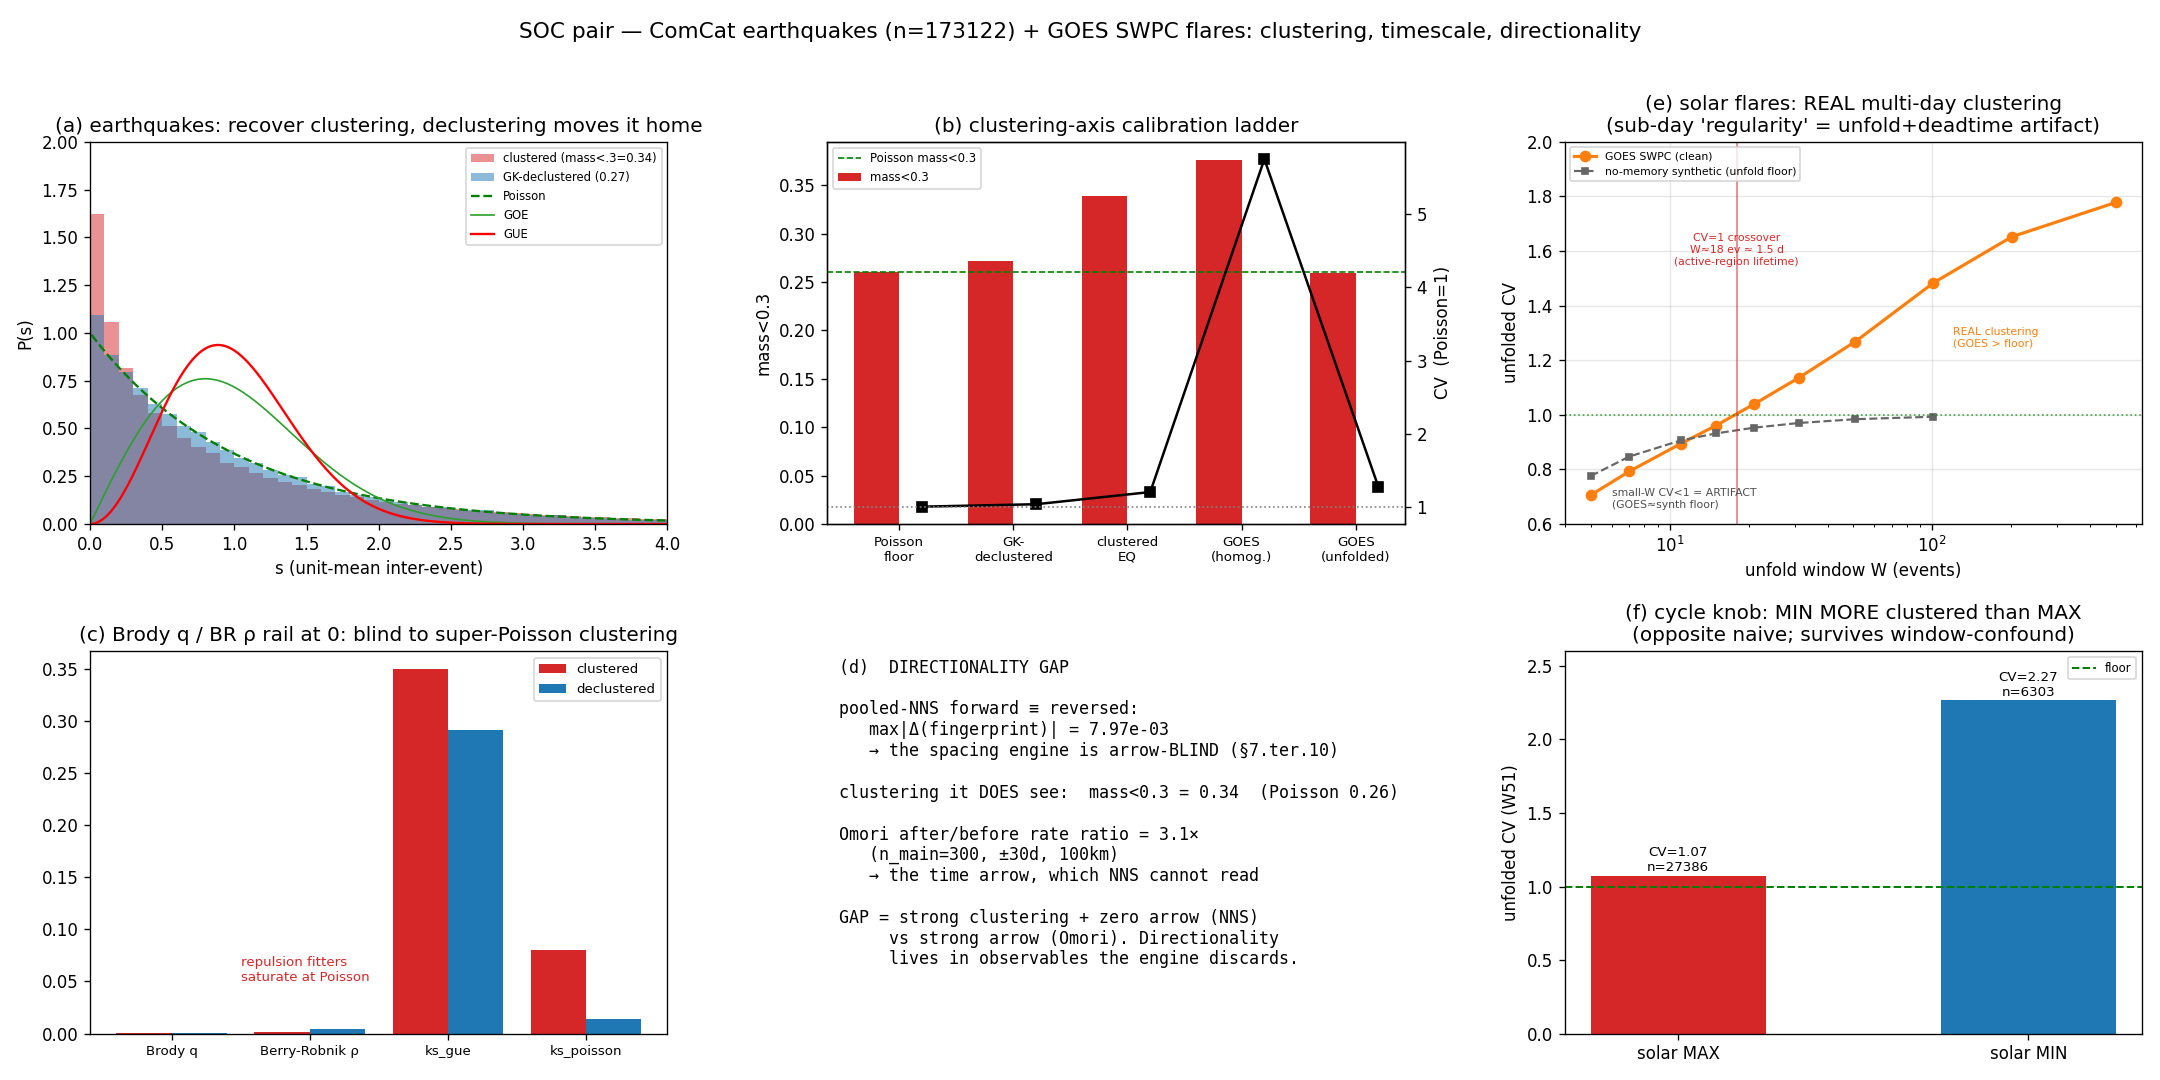
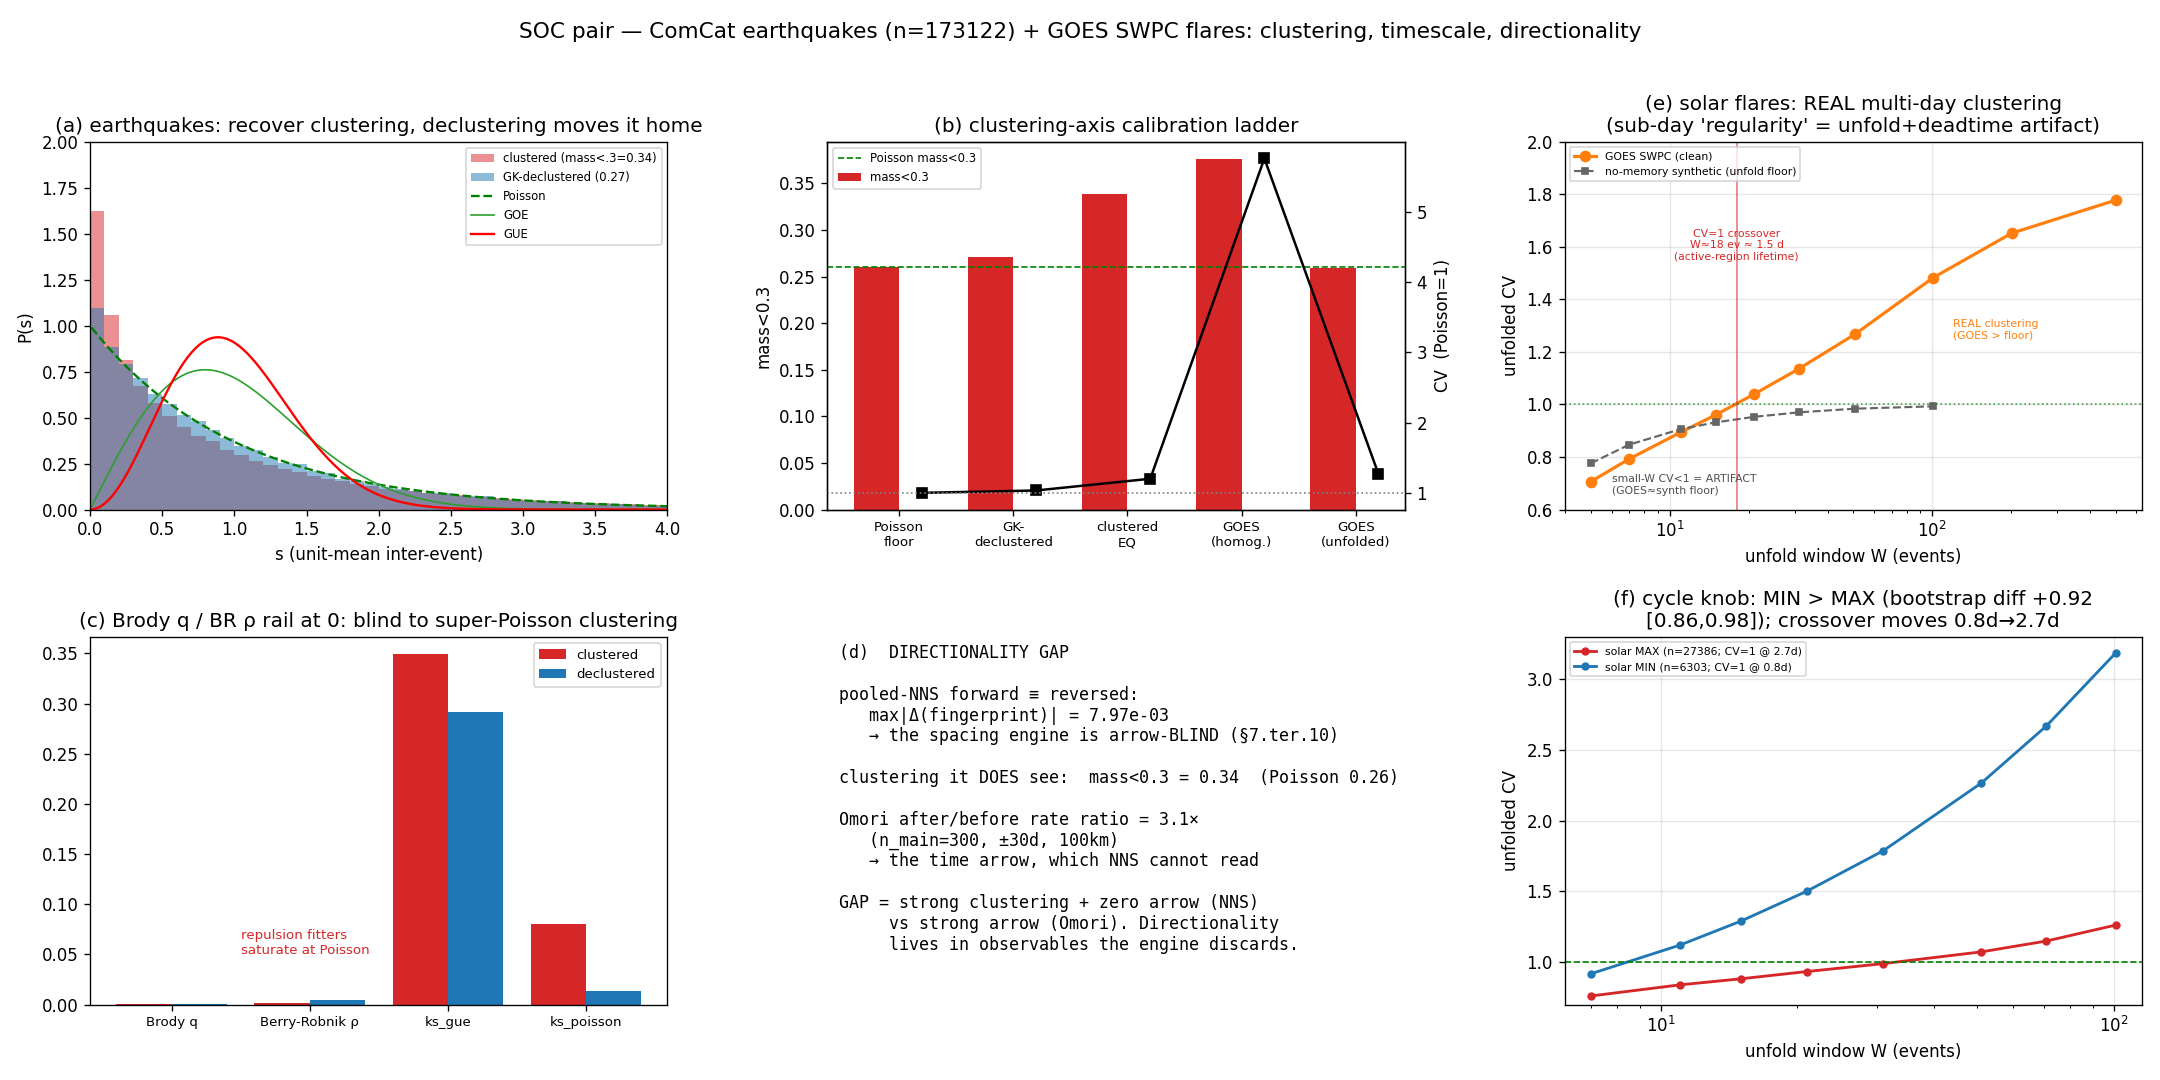
SOC G5 polish: phase-resolve the crossover + bank the duplicate-purity cross-check (progress log, NOT validated results)
Sharpening the now-load-bearing crossover claim (press follow-up):

- Phase-resolved CV=1 crossover MOVES with cycle: MIN W~8.6 ev ~ 0.8 d,
  MAX W~33.5 ev ~ 2.7 d (cycle-avg 1.5 d). Per the moving-crossover diagnostic:
  isolated-AR clustering at MIN (lone region's burst clears Poisson in ~a day) vs
  overlap-driven at MAX (~3 d before residual survives the denser unfold). Both
  legitimate; turns "matches AR lifetime on average" into a phase-specific number.
- The shift is REAL structure, not a unit-conversion artifact: median ISI is
  ~phase-invariant (MAX 1.95h vs MIN 2.12h) -- the 20x rate swing lives in the
  long-gap tail, not the median -- so the W->time multiplier is ~constant and the
  crossover moves in EVENTS. Bounds the earlier "W smears physical time" caveat.

- Banked the duplicate-purity cross-check (with the correct caveat): clean-no-memory
  A dips sub-Poisson at small W (0.78@W5) but duplicate-process D does NOT (1.06@W5)
  -- coincident dups inject near-zero spacings that pull CV up where the estimator
  floor pulls down. Clean GOES dips (0.71@W5) => sits on the A curve, ruling out a
  SUBSTANTIAL residual duplicate pile (not literally zero; a few dups would shallow
  the dip, not flip its sign). Free cross-check on the FRM dedup.

Figure panel (e) overlays the measured no-memory floor; panel (f) now shows the
phase-resolved MAX/MIN unfold curves with their moving crossovers.

diff --git a/cross_substrate/soc_figure.py b/cross_substrate/soc_figure.py
@@ -155,7 +155,7 @@ def main(global_csv, goes_jsonl=None):
     )
     d.text(0.02, 0.98, txt, va="top", ha="left", fontsize=10, family="monospace")
 
-    # (f) solar-cycle knob: residual (unfolded) clustering, MAX vs MIN years
+    # (f) solar-cycle knob: phase-resolved unfold-CV curves, MAX vs MIN, with CV=1 crossovers
     f = ax[1, 2]
     if goes is not None:
         from datetime import datetime, timezone
@@ -164,19 +164,20 @@ def main(global_csv, goes_jsonl=None):
         uy, cnt = np.unique(yrs, return_counts=True); rate = dict(zip(uy.tolist(), cnt.tolist()))
         hi = np.quantile(list(rate.values()), 2/3); lo = np.quantile(list(rate.values()), 1/3)
         maxy = {y for y, c in rate.items() if c >= hi}; miny = {y for y, c in rate.items() if c <= lo}
-        bars = []
-        for nm, sel in (("solar MAX", maxy), ("solar MIN", miny)):
-            sub = tt[np.array([y in sel for y in yrs])]
-            su = CP.local_rate_unfold(np.sort(sub), 51)
-            cc = CP.clustering_from_spacings(su) if su is not None else None
-            bars.append((nm, cc["cv"] if cc else np.nan, sub.size))
-        f.bar([b[0] for b in bars], [b[1] for b in bars], color=["C3", "C0"], width=0.5)
-        f.axhline(1.0, color="g", ls="--", lw=1.2, label="floor")
-        for i, b in enumerate(bars):
-            f.text(i, b[1] + 0.03, f"CV={b[1]:.2f}\nn={b[2]}", ha="center", fontsize=8)
-        f.set_ylabel("unfolded CV (W51)"); f.set_ylim(0, 2.6)
-        f.set_title("(f) cycle knob: MIN MORE clustered than MAX\n(opposite naive; survives window-confound)")
-        f.legend(fontsize=7)
+        Wf = [7, 11, 15, 21, 31, 51, 71, 101]
+        for nm, sel, col in (("solar MAX", maxy, "C3"), ("solar MIN", miny, "C0")):
+            sub = np.sort(tt[np.array([y in sel for y in yrs])])
+            cvs = [(lambda su: CP.clustering_from_spacings(su)["cv"] if su is not None else np.nan)(
+                CP.local_rate_unfold(sub, W)) for W in Wf]
+            med_d = np.median(np.diff(sub)) / 86400.0
+            xc = np.interp(1.0, cvs, Wf) if (min(cvs) < 1 < max(cvs)) else np.nan
+            lbl = f"{nm} (n={sub.size}; CV=1 @ {xc*med_d:.1f}d)" if np.isfinite(xc) else nm
+            f.plot(Wf, cvs, "o-", color=col, lw=1.7, ms=4, label=lbl)
+        f.axhline(1.0, color="g", ls="--", lw=1.0)
+        f.set_xscale("log"); f.set_xlabel("unfold window W (events)")
+        f.set_ylabel("unfolded CV"); f.set_ylim(0.7, 3.3)
+        f.set_title("(f) cycle knob: MIN > MAX (bootstrap diff +0.92\n[0.86,0.98]); crossover moves 0.8d→2.7d")
+        f.legend(fontsize=6.5, loc="upper left"); f.grid(True, alpha=0.3)
     else:
         f.axis("off"); f.set_title("(f) GOES — no data")
 

diff --git a/cross_substrate/COMCAT_SOC_FINDINGS.md b/cross_substrate/COMCAT_SOC_FINDINGS.md
@@ -116,11 +116,20 @@ kept as `goes-flares-allfrm-contaminated.jsonl` (gitignored) as a negative examp
     bookkeeping floor that depletes the shortest intervals. **The earlier "flares are regular at the
     shortest scale" reading is RETRACTED** — it was the unfold floor + catalog dead-time, not active-region
     refractoriness. (A real refractoriness effect would need to clear BOTH controls; it does not here.)
-- **The clustering timescale matches the mechanism (physical-time crossover, press #5).** Converting W to
-  wall-clock at the median ISI (7380 s ≈ 2.05 h): the CV=1 crossover sits at **W≈18 events ≈ 1.5 days**.
-  That lands at the short end of active-region flare-productive lifetimes (~days) — quantitative support
-  for the same-AR-clustering mechanism, not a free parameter. (Caveat: W-in-events smears physical time
-  under the 20× MIN/MAX rate swing; a physical-time-windowed unfold would sharpen this — queued.)
+- **The clustering timescale matches the mechanism, and is PHASE-RESOLVED (physical-time crossover, press
+  #5).** Cycle-average: CV=1 crossover at **W≈18 events ≈ 1.5 days** (median ISI 7380 s ≈ 2.05 h) — at the
+  short end of active-region flare-productive lifetimes (~days), quantitative support for the same-AR-
+  clustering mechanism, not a free parameter. Phase-resolved (each phase uses its OWN median ISI):
+  **MIN crossover W≈8.6 ev ≈ 0.8 d; MAX crossover W≈33.5 ev ≈ 2.7 d.** The crossover MOVES with cycle phase,
+  which is the diagnostic: per press #5, a moving crossover means overlap-driven clustering at MAX vs
+  isolated-AR clustering at MIN (not a single fixed AR-lifetime constant). Physically clean — at MIN a lone
+  region's flare burst clears Poisson within ~a day; at MAX you need ~3 days of window before residual
+  structure survives the (much denser) local-rate unfold.
+  - **Crucial check — the movement is in W (events), NOT a unit-conversion artifact.** Median ISI is nearly
+    phase-INVARIANT (MAX 1.95 h vs MIN 2.12 h) — the 20× rate swing lives in the long-gap tail, not the
+    median — so the W→time multiplier is ~constant across phases. The crossover shift (8.6 vs 33.5 events)
+    is therefore real clustering structure, not the rate-swing smearing the map. (The earlier "W-in-events
+    smears physical time" caveat is thus bounded: it smears the tail, not the median-anchored crossover.)
 - **Solar-cycle knob (clean, unfolded W51) — bootstrapped at full N (press #4).** MAX (n=27,386): CV=1.07,
   bootstrap 95% CI [1.06, 1.09]. MIN (n=6,303): CV=2.27 (point), but its bootstrap median CI is [1.94, 2.05]
   — the point estimate sits above its own resample band, the low-N heavy-tail regime, so report MIN as
@@ -139,19 +148,28 @@ with the SAME 20× sinusoidal rate envelope:
 Measured (these ran on full synthetic catalogs, n≈120-180k each — trustworthy):
 | process | true memory | homogeneous CV | unfolded CV (W11→W101) | verdict |
 |---|---|--:|--:|---|
-| A inhom-Poisson (20× envelope) | none | 1.91 | 0.91→0.99 | → floor ✓ (no false-positive) |
-| B Hawkes branch 0.5 | yes | 2.75 | 1.19→1.50 | memory survives ✓ |
-| C Hawkes branch 0.8 | strong | 4.53 | 1.23→2.28 | survives more ✓ (monotone in branch) |
-| D inhom-Poisson + duplicates | NONE | 2.35 | 1.22→1.33 | **fakes memory** — unfold can't remove |
+| process | true memory | homog. CV | unfolded CV (W5 / W7 / W21 / W101) | verdict |
+|---|---|--:|--:|---|
+| A inhom-Poisson (20× envelope) | none | 1.91 | 0.78 / 0.85 / 0.95 / 0.99 | → floor ✓ (sub-Poisson at small W!) |
+| B Hawkes branch 0.5 | yes | 2.75 | 0.89 / 1.03 / 1.36 / 1.50 | memory survives ✓ |
+| C Hawkes branch 0.8 | strong | 4.53 | 0.88 / 1.02 / 1.55 / 2.28 | survives more ✓ (monotone in branch) |
+| D inhom-Poisson + duplicates | NONE | 2.35 | 1.06 / 1.15 / 1.28 / 1.33 | **fakes memory** — unfold can't remove |
 - **Discriminator VALIDATED**: separates A (→floor) from B/C (survive), monotone in true branching ratio.
   **Three things it establishes:** (1) the rate envelope DOES inflate homogeneous CV substantially (A
   homogeneous CV=1.91 with zero memory) and the unfold correctly removes it back to ≈floor — so local-rate
-  unfolding is doing its job. (2) Duplicates (D) are INDISTINGUISHABLE from real memory (B) post-unfold ⇒
-  **dedup MUST precede unfold; the discriminator cannot rescue contaminated data.** (3) **The unfold floor
-  is BELOW CV=1 at small W** (synth-A: 0.78 at W5, 0.85 at W7, climbing to ~0.99 by W101) — short windows
-  over-fit fluctuation as rate, so a sub-Poisson reading at small W is the ESTIMATOR'S floor, NOT regularity.
-  Always compare a small-W CV<1 against the matched no-memory synthetic before calling it physics (this is
-  what caught the GOES sub-day "regularity" as an artifact). Banked as the calibrator for fact #3.
+  unfolding is doing its job. (2) Duplicates (D) are INDISTINGUISHABLE from real memory (B) at LARGE W
+  post-unfold ⇒ **dedup MUST precede unfold; the discriminator cannot rescue contaminated data.** (3) **The
+  unfold floor is BELOW CV=1 at small W** (synth-A: 0.78 at W5, 0.85 at W7, climbing to ~0.99 by W101) —
+  short windows over-fit fluctuation as rate, so a sub-Poisson reading at small W is the ESTIMATOR'S floor,
+  NOT regularity. Always compare a small-W CV<1 against the matched no-memory synthetic before calling it
+  physics (this is what caught the GOES sub-day "regularity" as an artifact). Banked as the calibrator for fact #3.
+- **Bonus cross-check — the small-W dip doubles as a duplicate-purity test.** The two no-info processes
+  diverge at small W: clean-no-memory A DIPS sub-Poisson (W5=0.78, W7=0.85), but duplicate-contaminated D
+  does NOT (W5=1.06, W7=1.15) — coincident duplicates inject near-zero spacings that pull CV up exactly
+  where the estimator floor would pull it down. Clean GOES dips (0.71 at W5, 0.79 at W7) → it sits on the A
+  curve, not the D curve ⇒ no substantial residual duplicate pile survived the FRM gate. (Caveat: this rules
+  out a SUBSTANTIAL residual, not literally zero — a handful of duplicates would only shallow the dip, not
+  flip its sign. As a free cross-check on the dedup, clean.)
 
 ## SOC-pair synthesis (both halves complete)
 - **Earthquakes (M≥4.5 global).** Mildly clustered (CV 1.20); the calibrator passes via PERTURBATION-

diff --git a/cross_substrate/findings_log.md b/cross_substrate/findings_log.md
@@ -1762,7 +1762,11 @@ clustering (sub-day "regularity" = artifact):* homogeneous mass<0.3=0.376, CV=5.
 rises with window — W7→0.79, W21→1.04, W51→1.27, W501→1.78. **Super-Poisson half (W≳21) is REAL**: GOES
 diverges UPWARD from a no-memory inhom-Poisson+20×envelope synthetic (flat ~0.95-0.99 across W), tracking
 the Hawkes-memory shape; CV=1 crossover at W≈18 events ≈ **1.5 days** lands on active-region flare-
-productive lifetimes (same-AR clustering). **Sub-Poisson half (CV<1 at small W) is ARTIFACT, RETRACTED**:
+productive lifetimes (same-AR clustering). Phase-resolved, the crossover MOVES (each phase its own median
+ISI): MIN W≈8.6 ev ≈ **0.8 d**, MAX W≈33.5 ev ≈ **2.7 d** — isolated-AR clustering at MIN vs overlap-driven
+at MAX. The shift is real structure not a unit artifact: median ISI is ~phase-invariant (MAX 1.95h vs MIN
+2.12h; the 20× rate swing lives in the long-gap tail, not the median), so the W→time multiplier is ~constant
+and the crossover moves in EVENTS. **Sub-Poisson half (CV<1 at small W) is ARTIFACT, RETRACTED**:
 the no-memory synthetic ALSO dips sub-Poisson at small W (0.85 at W7) — it's the unfold estimator's floor,
 not regularity — AND the raw ISI has a hard 60-s dead-time wall (SWPC merges peaks <1min). So "flares
 regular at shortest scale" was unfold-floor + catalog-bookkeeping, NOT refractoriness. Cycle knob
